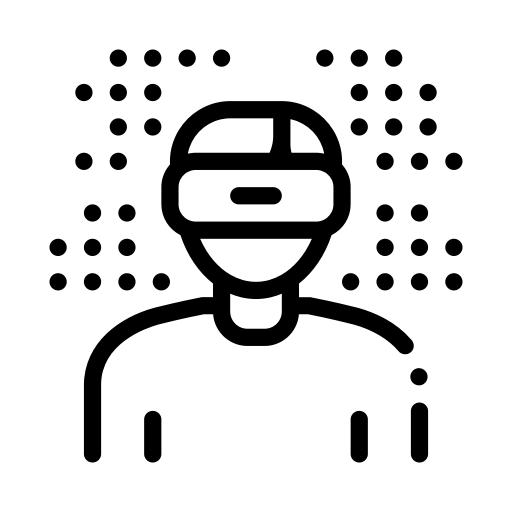
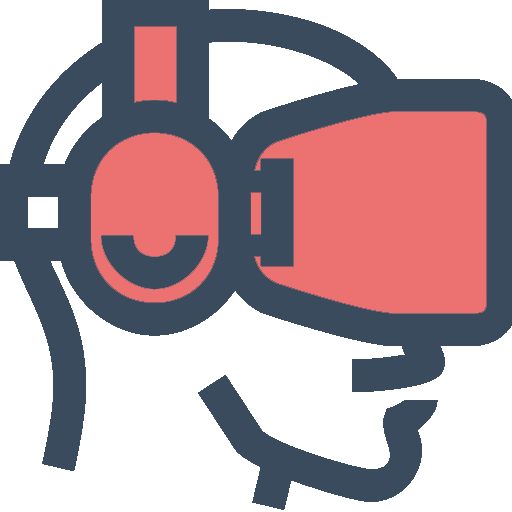
[update]サービスicon変更

diff --git a/app/assets/stylesheets/toppages.scss b/app/assets/stylesheets/toppages.scss
@@ -150,25 +150,7 @@
                             margin: 0px 0px 0px 0px;
                             color: #8c9eb7;
                             font-weight: 200;
-                        } 
-                        .list_description {
-                            a {
-                                margin: 10px 0px 7px 0px;
-                                width: 100%;
-                                color: $font-color;
-                                font-size: 14px;
-                                display: block;    
-                                text-decoration: none;
-                                text-align: left;
-                                text-overflow: ellipsis;
-                                overflow: hidden;
-                                letter-spacing: 0.01em;
-                                font-weight: 200;
-                                z-index: 1;
-                                max-height: 60px;
-                            }
-                        }
-                        
+                        }         
                     }          
                 }
             }
@@ -180,7 +162,7 @@
     font-family: -apple-system, BlinkMacSystemFont, "Helvetica Neue", "Yu Gothic", YuGothic, Verdana, Meiryo, "M+ 1p", sans-serif;
     .logout_image {
         padding: 55px 0px 0px 0px;
-        height: 430px;
+        height: 460px;
         background: $base-color url("/assets/top_image4.png") no-repeat center center;
         background-size:cover;
         background-size: 500px;
@@ -204,7 +186,7 @@
                 font-family: -apple-system, BlinkMacSystemFont, "Helvetica Neue", "Yu Gothic", YuGothic, Verdana, Meiryo, "M+ 1p", sans-serif;
                 font-size: 17px;
                 text-decoration: none;
-                margin: 0px 0px 0px 80px;
+                margin: 20px 0px 0px 80px;
                 color: #ffffff;
                 font-weight: 200;
                 letter-spacing: -0.1em;
@@ -231,6 +213,7 @@
                             transform: rotate(10deg);  
                         }
                         input {
+                            font-family: 'Exo', sans-serif;
                             color: #f4f6f8;
                             background: $accent-color;
                             width: 286px;

diff --git a/app/assets/stylesheets/_emotions.scss b/app/assets/stylesheets/_emotions.scss
@@ -139,7 +139,7 @@
     font-family: -apple-system, BlinkMacSystemFont, "Helvetica Neue", "Yu Gothic", YuGothic, Verdana, Meiryo, "M+ 1p", sans-serif;
     h1 {
         text-align: center;
-        color: #fff;
+        color: $font-color;
         margin: 5px auto 30px;
     }
     .minitue {
@@ -150,10 +150,10 @@
     form {
         margin: 0px auto;
         .question_1 {
-            color: #e4e8ee;
+            color: $text_font_color;
         }
         .question_2 {
-            color: #e4e8ee;
+            color: $text_font_color;
             height: 33px;
             border-radius: 8px;
             margin: 0px 0px 20px;
@@ -195,11 +195,11 @@
     .submit{
         text-align: right;
         margin: 25px 0px 0px 454px;
-        padding: 13px 25px;
+        padding: 15px 25px;
         background: $accent-color;
-        border: #fff;
+        border: none;
         border-radius: 20px;
-        color: $font-color;
+        color: $subfont-color;
         font-weight: bold;
         font-size: 15px;
         font-family: -apple-system, BlinkMacSystemFont, "Helvetica Neue", "Yu Gothic", YuGothic, Verdana, Meiryo, "M+ 1p", sans-serif;

diff --git a/app/assets/stylesheets/item_lists.scss b/app/assets/stylesheets/item_lists.scss
@@ -171,7 +171,7 @@ p {
                 margin: 0px auto 0px;
                 padding: 0px 0px 15px 0px;
                 width: 700px;
-                color: $font-color;
+                color: $text_font-color;
                 text-align: left;
             }
             .edit_item_list {
@@ -198,7 +198,7 @@ p {
             margin: 0px 0px 0px 0px;
             padding: 0px 3px 20px;
             font-size: 16px;
-            color: $font-color;
+            color: $text_font-color;
             text-align: left;
             font-weight: 100;
             letter-spacing: 0.05em;

diff --git a/app/assets/stylesheets/_variables.scss b/app/assets/stylesheets/_variables.scss
@@ -1,12 +1,13 @@
-$base-color: #3289d4;
-$main-color: #103f5c;
-$accent-color:#e2bd04;
-$submit-color:#064369;
+$base-color: #658fce;
+$main-color: #394B5D;
+$accent-color:#ec7171;
+$submit-color:#394B5D;
 $card-color: #f3f3f7;
 $complementary-color:#fd9030;
 
-$navfont-color: #e5e6e7;
-$font-color: #073755;
+$navfont-color: #ededee;
+$font-color: #394B5D;
+$text_font-color: #3c4146;
 $subfont-color: #f4f6f8;
 $list-categorytitle: #f9f9fa;
 $list-category-underline-color:#a09ebe;

diff --git a/app/assets/stylesheets/_navbar.scss b/app/assets/stylesheets/_navbar.scss
@@ -29,11 +29,11 @@ nav {
             top: 6px;
             margin: 0px 0px 3px 0px;
             img {
-            background-color: #ffffff;
-            padding: 5px;
-            width: 40px;
-            height: 40px;   
-            border-radius: 50%; 
+            background-color: $navfont-color;
+            padding: 6px;
+            width: 38px;
+            height: 38px;   
+            border-radius: 8px; 
             }
         }
         .nav_title {

diff --git a/app/assets/stylesheets/_form_itemlist.scss b/app/assets/stylesheets/_form_itemlist.scss
@@ -90,7 +90,7 @@
                 padding: 13px 25px;
                 background: $accent-color;
                 border: none;
-                color: $font-color;
+                color: $subfont-color;
                 font-size: 17px;
                 border-radius: 4px;
                 margin: 0px 19px 0px 0px;
